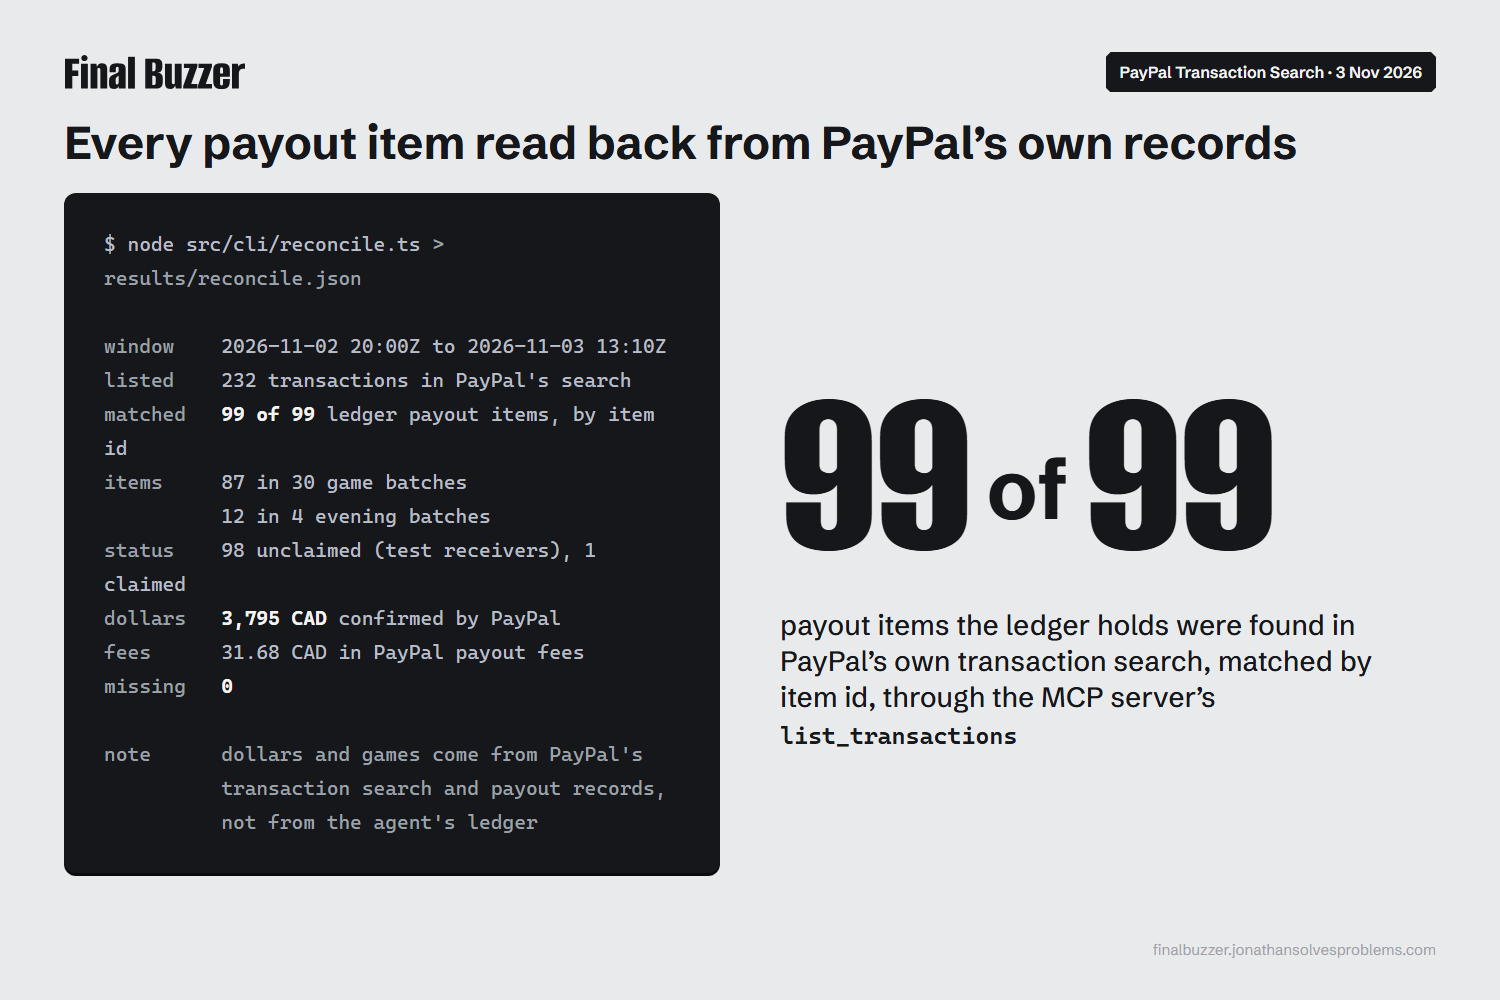
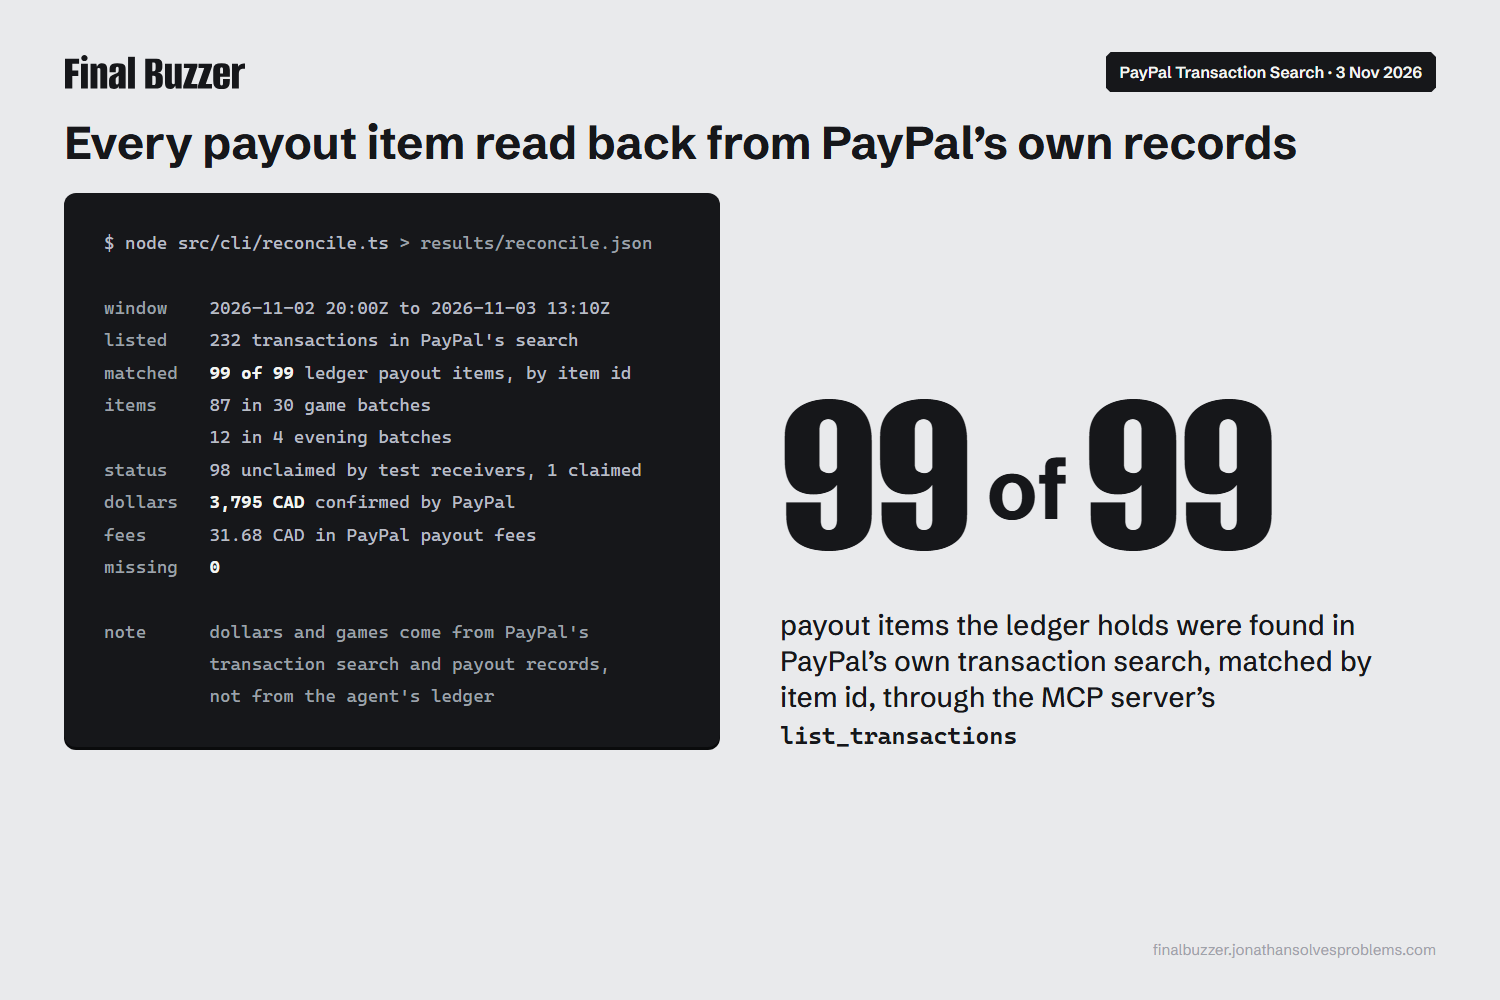
Gallery: the cover's board crop ends on a column line; the reconcile terminal no longer wraps

Changed region(s): [[0.0613, 0.217, 0.46, 0.713], [0.0307, 0.744, 0.4907, 0.899]]

diff --git a/devpost/slides/slides.py b/devpost/slides/slides.py
@@ -183,14 +183,14 @@ _eve_batches = len({m["senderBatchId"] for m in RC["matched"] if not re.search(r
 _status = {}
 for m in RC["matched"]:
     _status[m["payout_status"]] = _status.get(m["payout_status"], 0) + 1
-RECON_TERM = f"""<div class="term fit" style="font-size:20px;line-height:1.7;padding:34px 40px">$ node src/cli/reconcile.ts <span class="k">&gt; results/reconcile.json</span>
+RECON_TERM = f"""<div class="term fit" style="font-size:18px;line-height:1.8;padding:34px 40px">$ node src/cli/reconcile.ts <span class="k">&gt; results/reconcile.json</span>
 
 <span class="k">window   </span> {RC["window"]["start"][:16].replace("T", " ")}Z to {RC["window"]["end"][:16].replace("T", " ")}Z
 <span class="k">listed   </span> {RC["transactions_listed"]} transactions in PayPal's search
 <span class="k">matched  </span> <span class="c">{RC["matched_items"]} of {len(RC["matched"]) + len(RC["pending"])}</span> ledger payout items, by item id
 <span class="k">items    </span> {_game_items} in {RC["games_confirmed_by_paypal"]} game batches
           {_eve_items} in {_eve_batches} evening batches
-<span class="k">status   </span> {_status.get("UNCLAIMED", 0)} unclaimed (test receivers), {_status.get("SUCCESS", 0)} claimed
+<span class="k">status   </span> {_status.get("UNCLAIMED", 0)} unclaimed by test receivers, {_status.get("SUCCESS", 0)} claimed
 <span class="k">dollars  </span> <span class="c">{RC["dollars_confirmed_by_paypal"]:,} CAD</span> confirmed by PayPal
 <span class="k">fees     </span> {RC["payout_fees"]} CAD in PayPal payout fees
 <span class="k">missing  </span> <span class="c">{RC["not_yet_in_transaction_search"]}</span>
@@ -242,7 +242,7 @@ def build():
     return [
         {
             "id": "board", "badge": "PayPal sandbox · Saturday replayed 2 Nov 2026",
-            "html": COVER, "image": "tmp/shots/slide-board.png", "crop": [0, 366, 1266, 320],
+            "html": COVER, "image": "tmp/shots/slide-board.png", "crop": [0, 366, 1212, 320],
             "caption": "Saturday's 34 games replayed live through the agent and the PayPal sandbox: 28 paid, 81 officials, $3,145, a median of 40.2 seconds from the saved score to PayPal's confirmation. Every tile on the board is a game and its face is its money state. Live at " + URL + ".",
         },
         {
